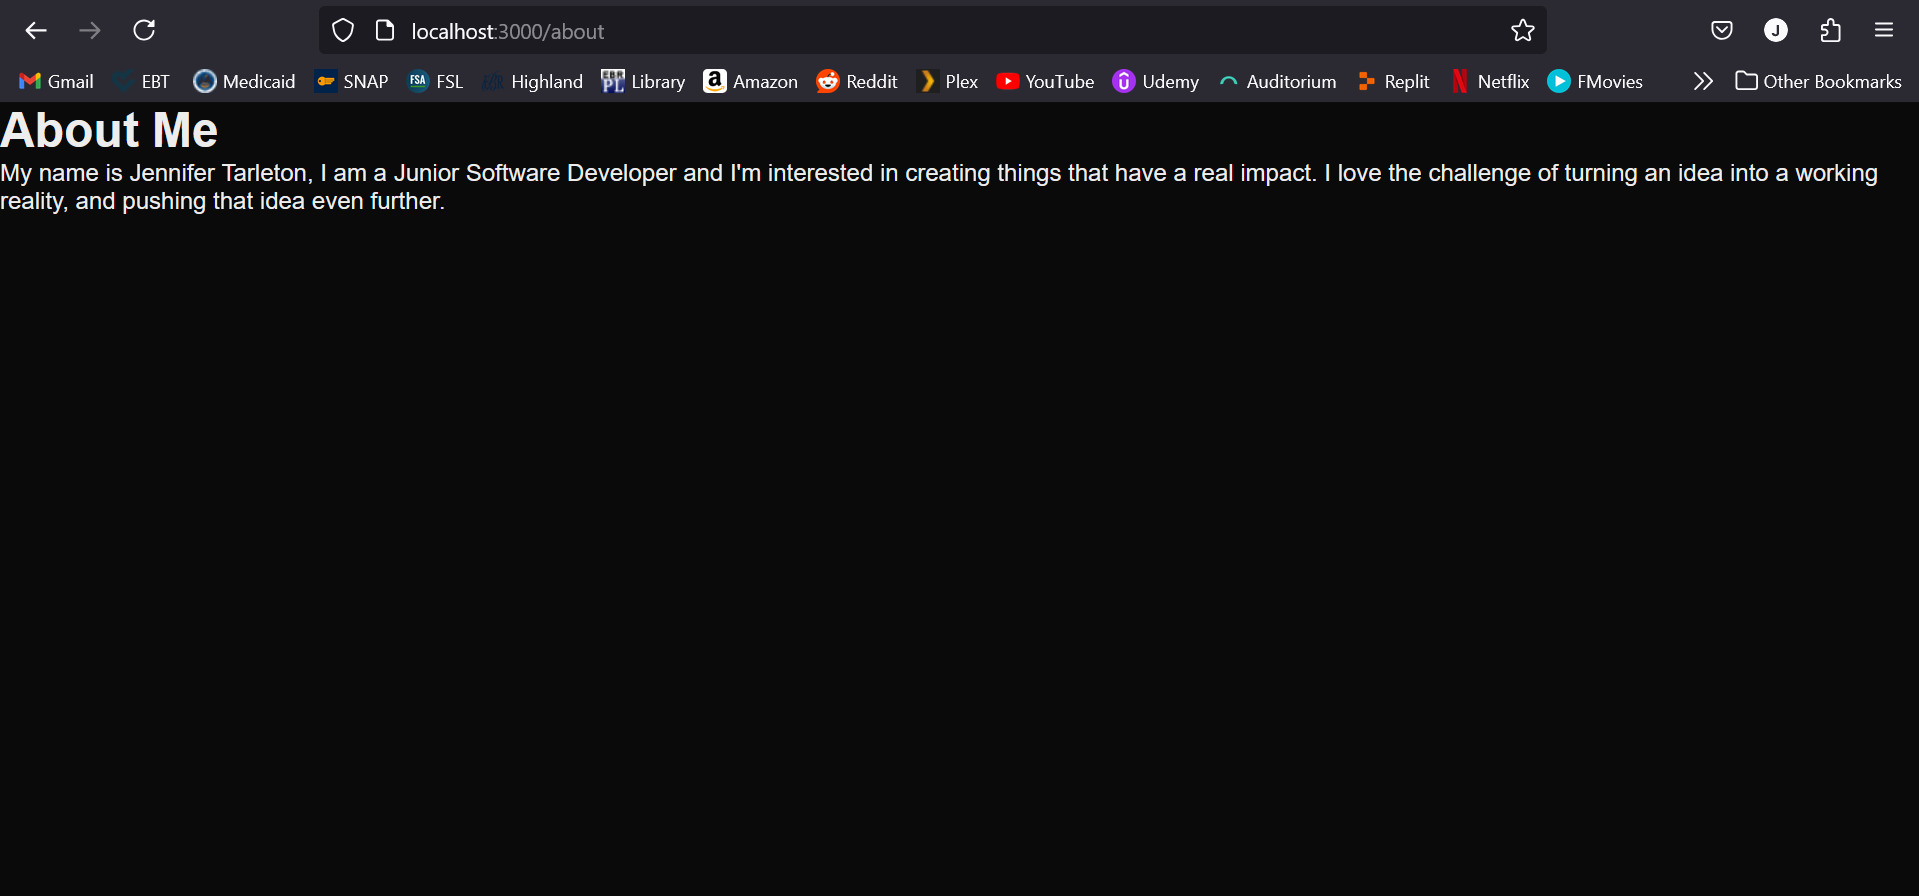
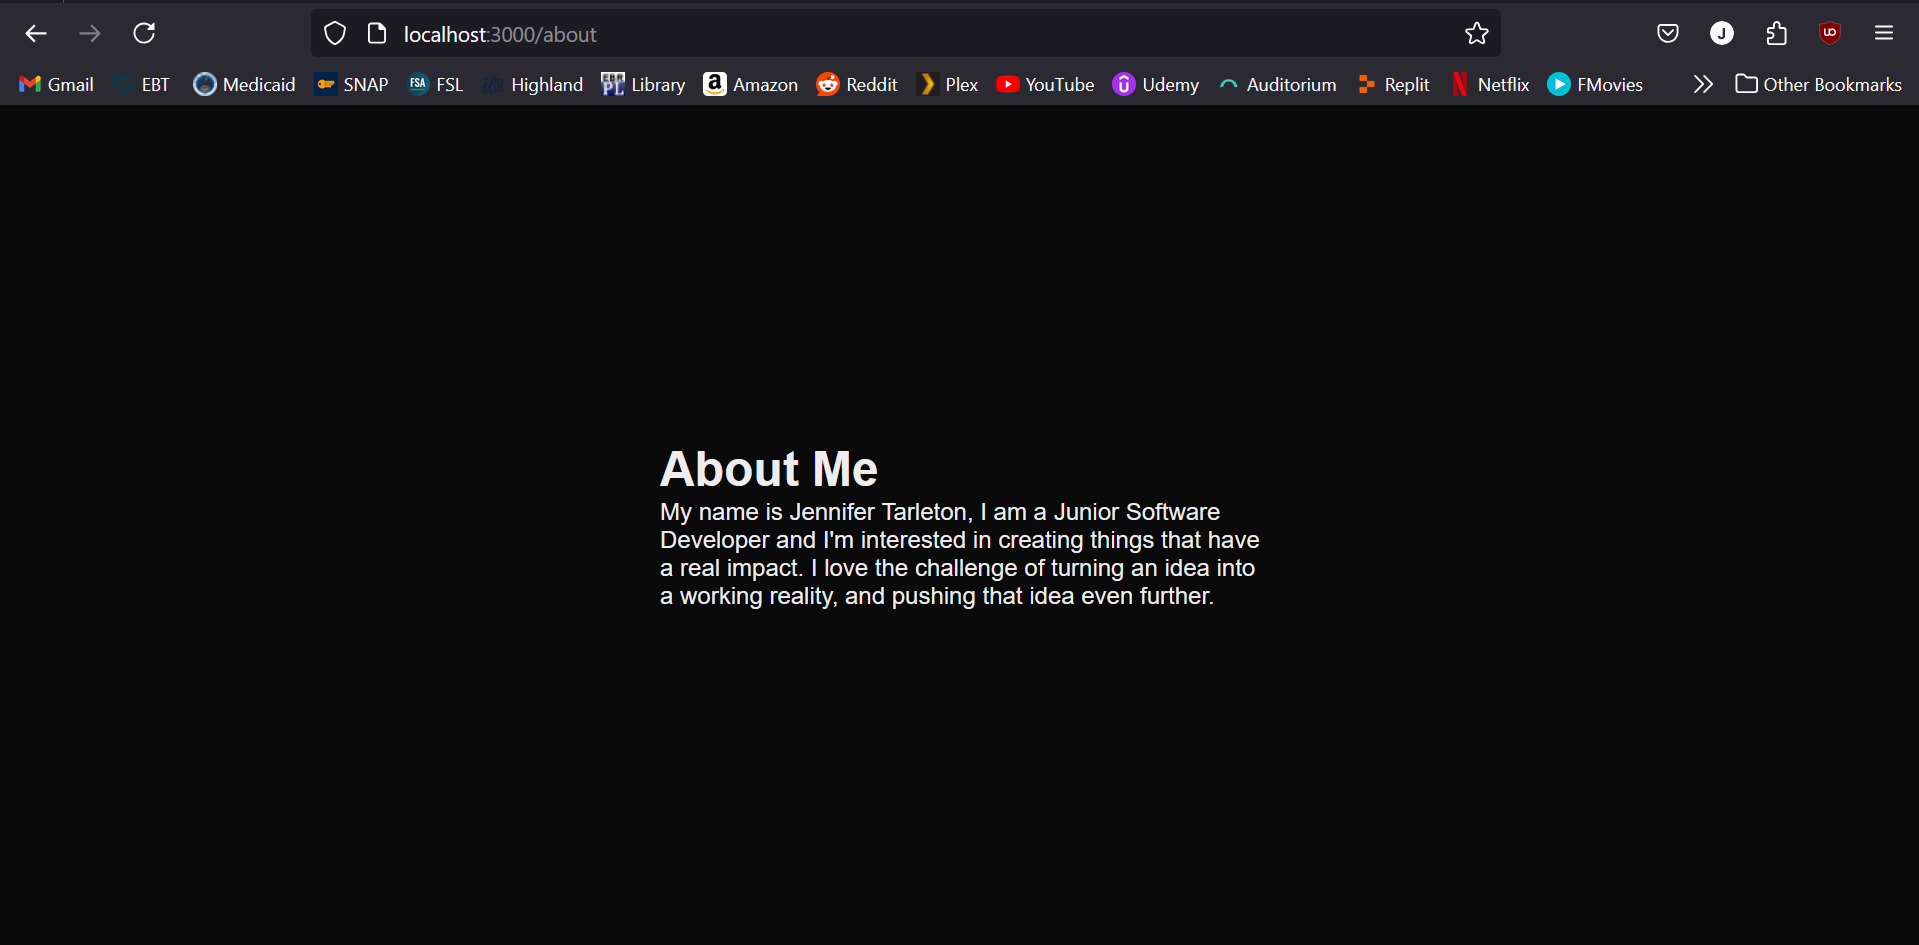
Add new screenshot, centered content

Changed region(s): [[0.0, 0.0, 1.0, 0.25], [0.3382, 0.4688, 0.6764, 0.6562]]

diff --git a/src/pages/about/index.js b/src/pages/about/index.js
@@ -1,14 +1,15 @@
 export default function AboutMe() {
     let myName = "Jennifer Tarleton";
     return (
-        <div>
+        <div className="center">
+            
+            <div>
             <h1>About Me</h1>
-            <p>
                 My name is {myName}, I am a Junior Software Developer 
                 and I'm interested in creating things that have a real
                  impact. I love the challenge of turning an idea into 
                  a working reality, and pushing that idea even further. 
-            </p>
+            </div>
         </div>
     );
 }

diff --git a/src/styles/globals.css b/src/styles/globals.css
@@ -47,4 +47,5 @@ a {
   height: 100vh;
   width: 400px;
   margin: auto;
+  
 }
